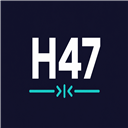
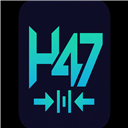
Prepare npm and Marketplace publishing pipeline
Add extension icon, npm badge, publish docs, release-triggered workflows, and VSIX upload to GitHub Releases.

diff --git a/docs/PUBLISH_SETUP.md b/docs/PUBLISH_SETUP.md
@@ -1,0 +1,68 @@
+# One-time publish setup
+
+Complete these steps once to enable automated publishing from GitHub Actions.
+
+## 1. NPM (`h47-token-optimizer`)
+
+1. Create/login at [npmjs.com](https://www.npmjs.com/signup) as **wcalmels**.
+2. Create an **Automation** access token: npm → Access Tokens → Generate New Token → **Automation**.
+3. Add it to GitHub:
+
+   ```powershell
+   gh secret set NPM_TOKEN -R wcalmels/h47-token-optimizer
+   ```
+
+4. (Recommended) Enable [Trusted Publishers](https://docs.npmjs.com/trusted-publishers) linking this repo’s **Publish to NPM** workflow — allows provenance without long-lived tokens later.
+
+5. Trigger publish:
+
+   ```powershell
+   gh workflow run "Publish to NPM" -R wcalmels/h47-token-optimizer
+   ```
+
+   Or create a GitHub Release — the workflow runs automatically on `release: published`.
+
+Verify: `npm view h47-token-optimizer`
+
+## 2. VS Code Marketplace
+
+1. Create publisher **wcalmels** at [marketplace.visualstudio.com/manage](https://marketplace.visualstudio.com/manage).
+2. Create Azure DevOps PAT with **Marketplace → Manage** scope.
+3. Add secret:
+
+   ```powershell
+   gh secret set VSCE_PAT -R wcalmels/h47-token-optimizer
+   ```
+
+4. Trigger:
+
+   ```powershell
+   gh workflow run "Publish VS Code Extension" -R wcalmels/h47-token-optimizer
+   ```
+
+## 3. Open VSX (Cursor / VSCodium)
+
+1. Register at [open-vsx.org](https://open-vsx.org/).
+2. Generate token and publish manually:
+
+   ```bash
+   npm run extension:pack
+   npx ovsx publish extensions/vscode/h47-token-optimizer-1.0.0.vsix -p YOUR_TOKEN
+   ```
+
+## 4. Pin repo on your GitHub profile
+
+GitHub API does not expose profile pinning — do this in the UI:
+
+1. Go to [github.com/wcalmels](https://github.com/wcalmels)
+2. **Customize your pins** → select **h47-token-optimizer**
+
+## 5. Install without Marketplace
+
+Download the `.vsix` from [Releases](https://github.com/wcalmels/h47-token-optimizer/releases) and install:
+
+```bash
+code --install-extension h47-token-optimizer-1.0.0.vsix
+```
+
+Or in Cursor: Extensions → … → **Install from VSIX**.

diff --git a/README.md b/README.md
@@ -5,6 +5,7 @@
 [![TypeScript](https://img.shields.io/badge/TypeScript-5.0-3178C6?logo=typescript&logoColor=white)](https://www.typescriptlang.org/)
 [![Node](https://img.shields.io/badge/Node-18%20|%2020-339933?logo=node.js&logoColor=white)](https://nodejs.org/)
 [![GitHub release](https://img.shields.io/github/v/release/wcalmels/h47-token-optimizer?include_prereleases)](https://github.com/wcalmels/h47-token-optimizer/releases)
+[![npm](https://img.shields.io/npm/v/h47-token-optimizer)](https://www.npmjs.com/package/h47-token-optimizer)
 [![Discussions](https://img.shields.io/github/discussions/wcalmels/h47-token-optimizer)](https://github.com/wcalmels/h47-token-optimizer/discussions)
 
 Deterministic, local compression for LLM prompts. No inference required.
@@ -213,6 +214,7 @@ See [NOTICE](NOTICE) for third-party attributions.
 - [Limitations](docs/LIMITATIONS.md) — read before production
 - [Business viability](docs/BUSINESS.md)
 - [VS Code Marketplace](docs/MARKETPLACE.md) — publish the extension
+- [Publish setup](docs/PUBLISH_SETUP.md) — NPM, Marketplace, and Open VSX tokens
 - [Changelog](CHANGELOG.md)
 - [Security policy](SECURITY.md)
 